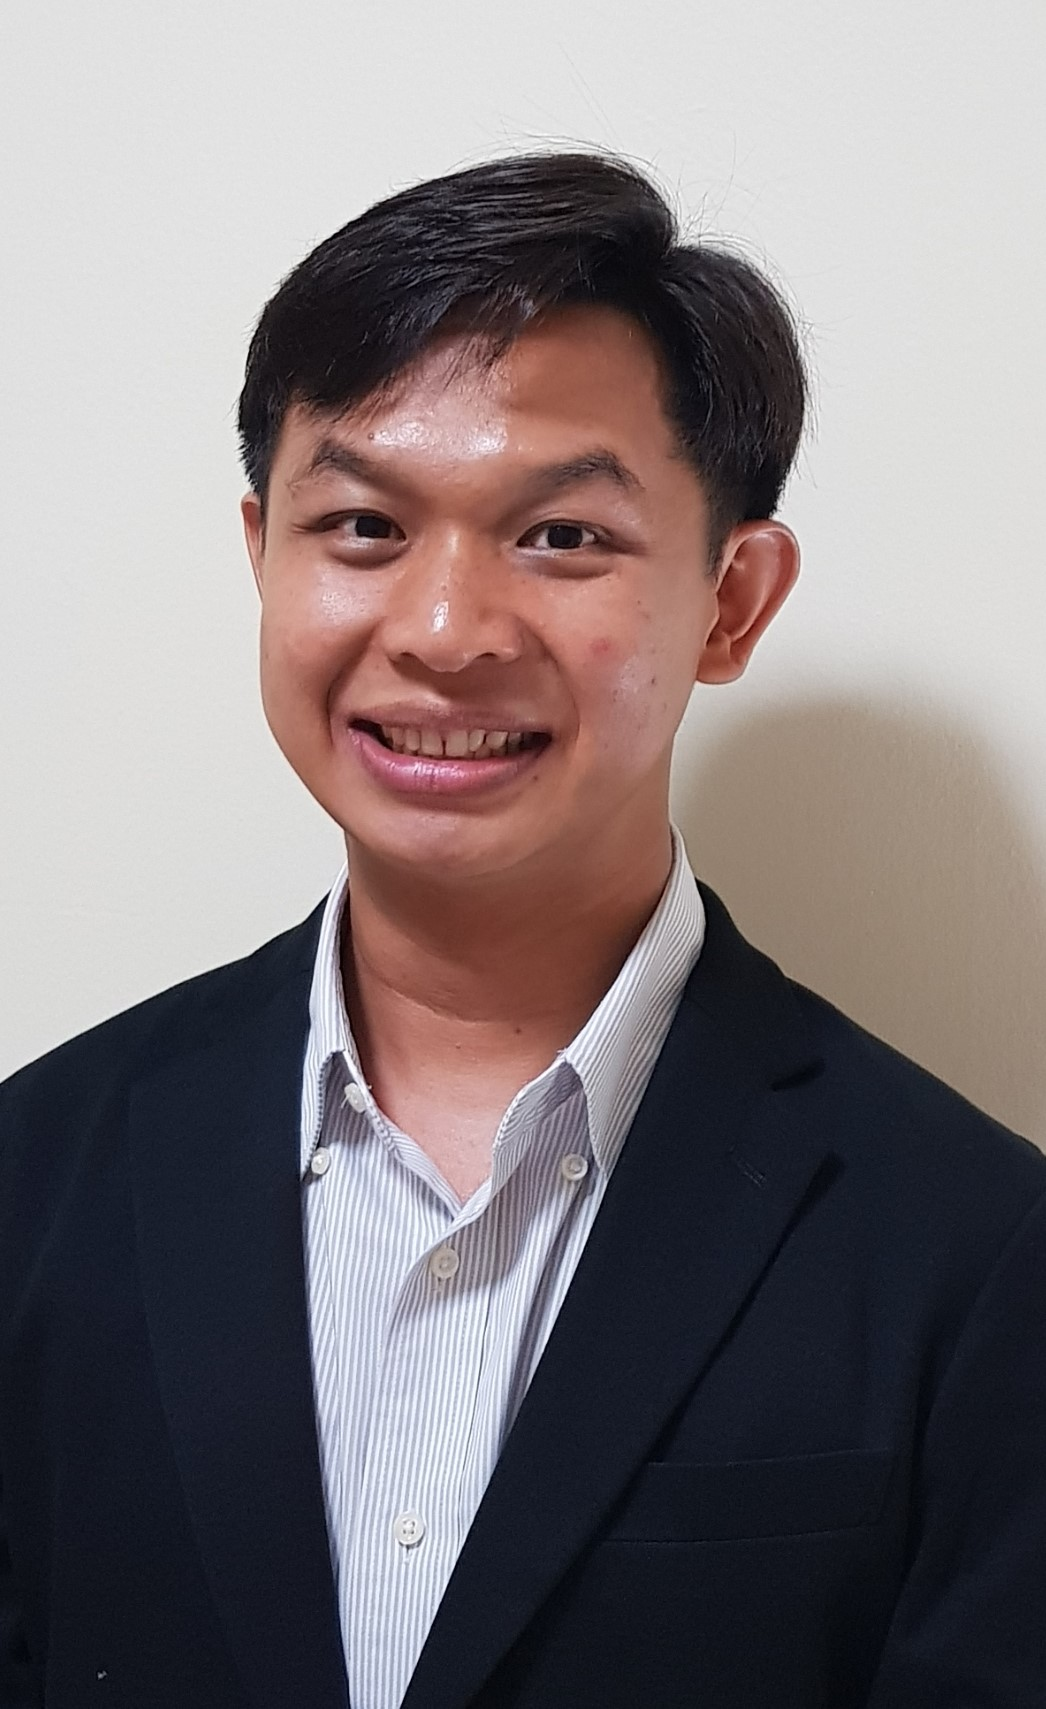
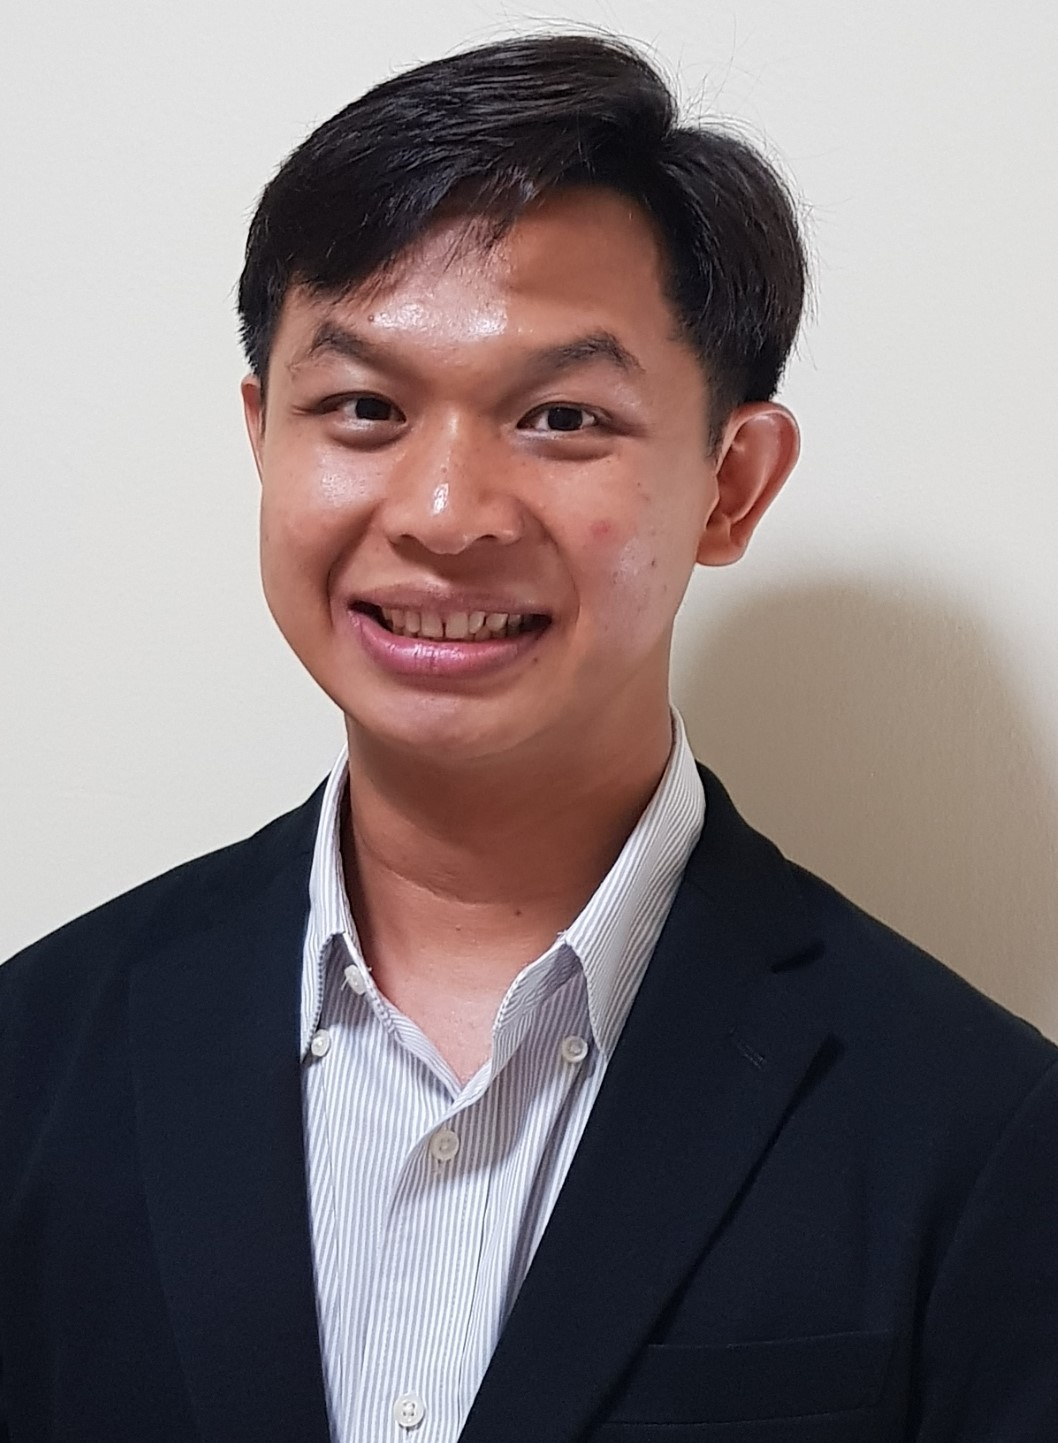
Update Photo

Changed region(s): [[0.0, 0.0, 1.0, 1.0], [0.5813, 0.3742, 0.6119, 0.4054], [0.2753, 0.4366, 0.3059, 0.4678]]

diff --git a/index.html b/index.html
@@ -130,7 +130,7 @@
 
                     <div class="profile-pic" data-aos="fade-up">
                         <img src="images/profile-pic.jpg" 
-                             srcset="images/profile-pic.jpg 1x" alt="">
+                             srcset="images/profile-pic.jpg 1x, images/profile-pic@2x.jpg 2x" alt="">
                     </div>
 
                     <h3 data-aos="fade-up">Profile</h3>
